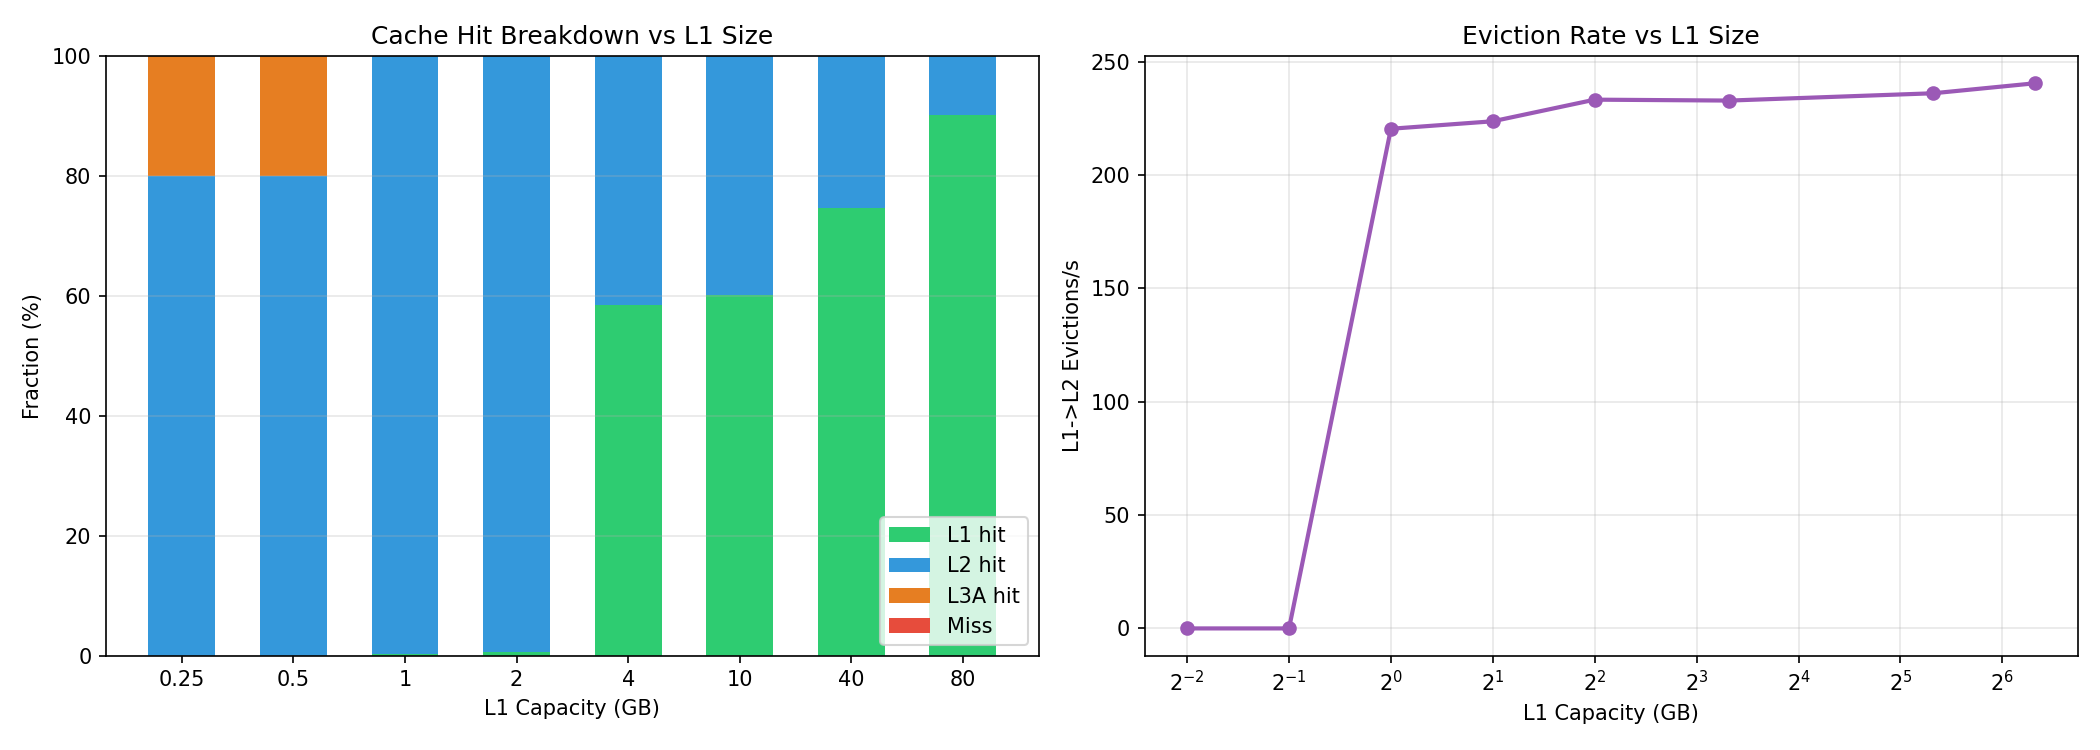
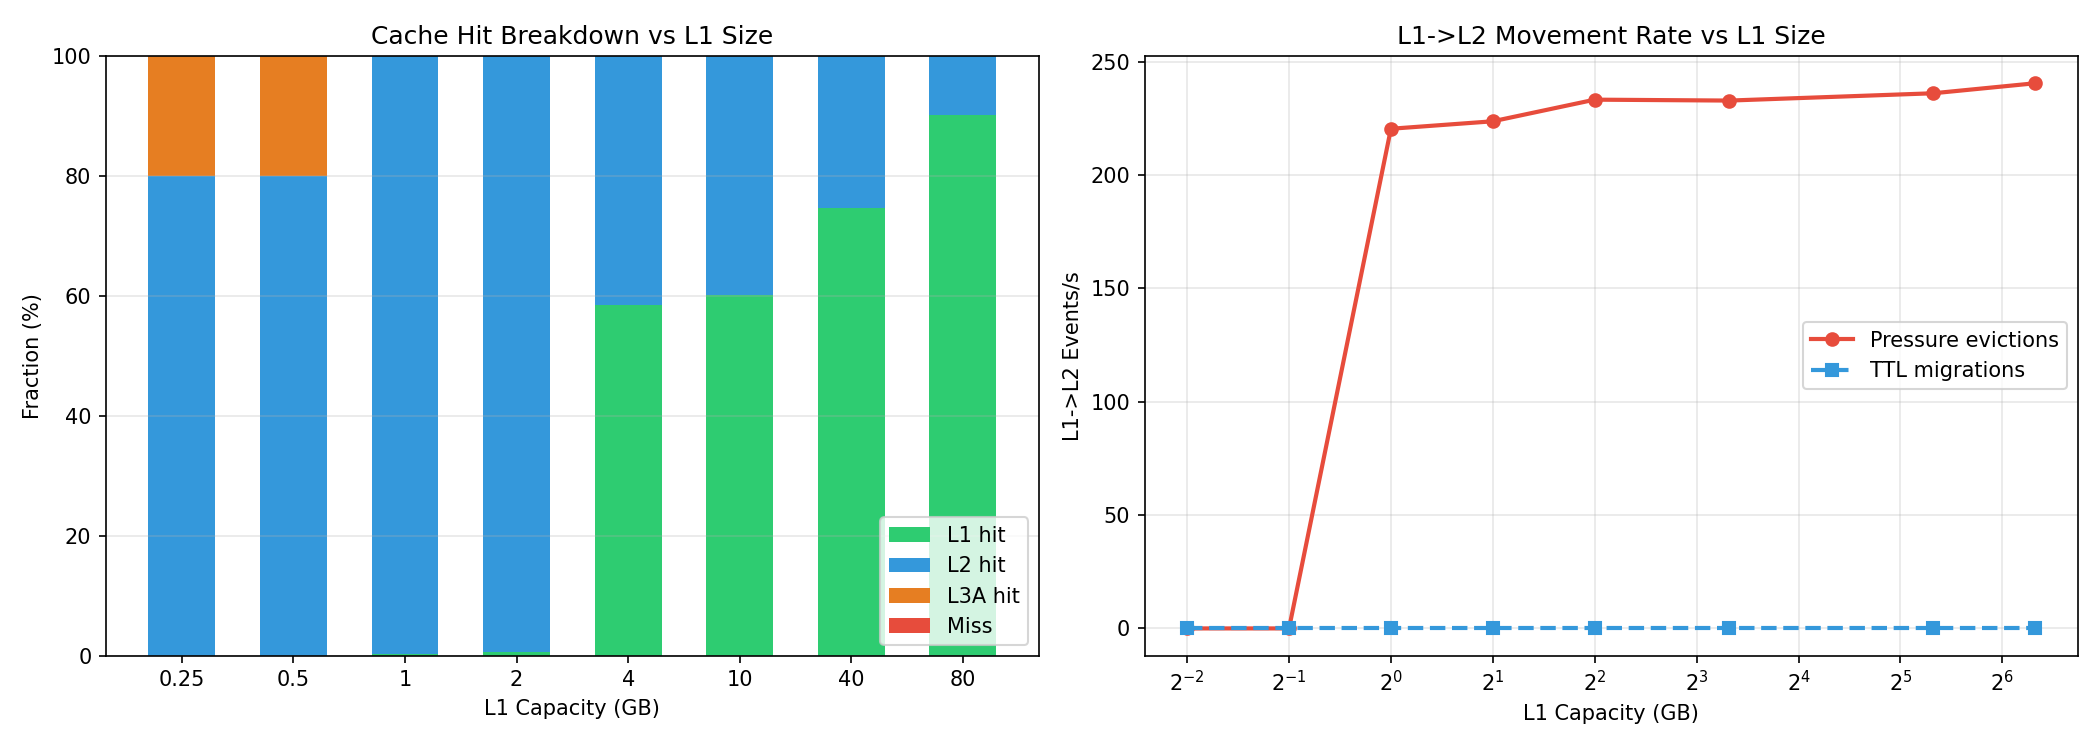
Fix queue depth wiring bug and split eviction metrics into pressure vs TTL
Two bugs fixed:
1. Queue depth plot showed flat zero because epoch report read
   self.service.prefill_queue (never populated) instead of
   self._pending_prefills (where engine actually queues prefills).

2. L1->L2 eviction counter conflated TTL-driven tier migrations with
   pressure-driven evictions, making the L1 sensitivity plot misleading.
   Split into l1_to_l2_evictions (pressure) and l1_to_l2_ttl_migrations.

Updated example report with savings class glossary, plot analysis
explaining the eviction plateau behavior, and queue depth findings.

diff --git a/scripts/sanity_plots.py b/scripts/sanity_plots.py
@@ -231,7 +231,8 @@ def plot_l1_sensitivity():
     fig, (ax1, ax2) = plt.subplots(1, 2, figsize=(14, 5))
     l1_sizes_gb = [0.25, 0.5, 1, 2, 4, 10, 40, 80]
     l1_hits, l2_hits, l3a_hits, misses = [], [], [], []
-    eviction_rates = []
+    pressure_eviction_rates = []
+    ttl_migration_rates = []
 
     for gb in l1_sizes_gb:
         cfg = stressed_config()
@@ -246,7 +247,8 @@ def plot_l1_sensitivity():
         l3a_hits.append((l3a_w + l3a_b) / total * 100)
         misses.append(m.savings_events.get("COLD_MISS", 0) / total * 100)
         eff_s = max(1, m.effective_sim_us) / 1e6
-        eviction_rates.append(m.l1_to_l2_evictions / eff_s)
+        pressure_eviction_rates.append(m.l1_to_l2_evictions / eff_s)
+        ttl_migration_rates.append(m.l1_to_l2_ttl_migrations / eff_s)
         print(f"    L1={gb}GB done")
 
     # Stacked bar for hit rates
@@ -266,11 +268,15 @@ def plot_l1_sensitivity():
     ax1.legend(loc="lower right")
     ax1.grid(True, alpha=0.3, axis="y")
 
-    ax2.plot(l1_sizes_gb, eviction_rates, "o-", color="#9b59b6", linewidth=2)
+    ax2.plot(l1_sizes_gb, pressure_eviction_rates, "o-", color="#e74c3c", linewidth=2,
+             label="Pressure evictions")
+    ax2.plot(l1_sizes_gb, ttl_migration_rates, "s--", color="#3498db", linewidth=2,
+             label="TTL migrations")
     ax2.set_xlabel("L1 Capacity (GB)")
-    ax2.set_ylabel("L1->L2 Evictions/s")
-    ax2.set_title("Eviction Rate vs L1 Size")
+    ax2.set_ylabel("L1->L2 Events/s")
+    ax2.set_title("L1->L2 Movement Rate vs L1 Size")
     ax2.set_xscale("log", base=2)
+    ax2.legend()
     ax2.grid(True, alpha=0.3)
 
     fig.tight_layout()
@@ -290,7 +296,8 @@ def main():
     print(f"  Sharing factor:  {report['sharing_factor']}")
     print(f"  Hit rates:       {report['cache_hit_rate']}")
     print(f"  Tier saturation: {report['tier_saturation_pct']}")
-    print(f"  Evictions L1->L2:  {report['eviction_rate_per_s']['L1_to_L2']}/s")
+    print(f"  L1->L2 pressure:   {report['eviction_rate_per_s']['L1_to_L2_pressure']}/s")
+    print(f"  L1->L2 TTL:        {report['eviction_rate_per_s']['L1_to_L2_ttl']}/s")
     print(f"  Evictions L2->L3A: {report['eviction_rate_per_s']['L2_to_L3A']}/s")
     print(f"  Cold evictions:    {report['session_cold_evictions']}")
     print()

diff --git a/sim/engine.py b/sim/engine.py
@@ -547,7 +547,7 @@ class SimEngine:
                 if l2.can_fit(l1_obj.size_bytes):
                     l2.insert(cache_key, l1_obj)
                     if collecting:
-                        self.metrics.l1_to_l2_evictions += 1
+                        self.metrics.l1_to_l2_ttl_migrations += 1
 
                     # If L2 TTL is 0, immediately hibernate to L3A
                     if self.config.ttl_l2_s <= 0:
@@ -613,7 +613,7 @@ class SimEngine:
             )
 
         # Record queue depths
-        self.metrics.prefill_queue_depth.append(len(self.service.prefill_queue))
+        self.metrics.prefill_queue_depth.append(len(self._pending_prefills))
         self.metrics.decode_queue_depth.append(len(self.service.decode_queue))
 
         # Record memory pollution

diff --git a/sim/metrics.py b/sim/metrics.py
@@ -55,7 +55,8 @@ class MetricsCollector:
     )
 
     # Eviction counts
-    l1_to_l2_evictions: int = 0
+    l1_to_l2_evictions: int = 0          # pressure-driven (occupancy or placement)
+    l1_to_l2_ttl_migrations: int = 0     # TTL-driven tier migration (not pressure)
     l2_to_l3a_evictions: int = 0
     session_cold_evictions: int = 0
 
@@ -122,7 +123,8 @@ class MetricsCollector:
         # Eviction rates
         eff_s = max(1, self.effective_sim_us) / 1_000_000
         eviction_rate = {
-            "L1_to_L2": r(self.l1_to_l2_evictions / eff_s),
+            "L1_to_L2_pressure": r(self.l1_to_l2_evictions / eff_s),
+            "L1_to_L2_ttl": r(self.l1_to_l2_ttl_migrations / eff_s),
             "L2_to_L3A": r(self.l2_to_l3a_evictions / eff_s),
         }
 

diff --git a/docs/example_report.md b/docs/example_report.md
@@ -27,13 +27,27 @@ These tests exercise extreme configurations to verify the simulator respects phy
 | Test | Result | What It Proves |
 |------|--------|----------------|
 | `test_zero_ttl_collapses_l2` | PASS | TTL=0 forces all L2 objects to hibernate immediately; L2 occupancy stays ~0% |
-| `test_infinite_l1_no_evictions` | PASS | L1 capacity = 2^50 bytes produces exactly 0 L1-to-L2 evictions |
+| `test_infinite_l1_no_evictions` | PASS | L1 capacity = 2^50 bytes produces exactly 0 L1-to-L2 pressure evictions |
 | `test_no_shared_prefix_sharing_factor_one` | PASS | `shared_system_prefix_tokens=0` for all profiles yields `sharing_factor ~= 1.0` |
 | `test_zero_bandwidth_penalty_prefers_restore` | PASS | Infinite bandwidth + zero latency floor produces 0 BREAK_EVEN events (restore is always worthwhile) |
 
+## Glossary: Savings Classes
+
+Each cache lookup is classified into one of five **savings classes** that describe the cost-benefit of the cache hit:
+
+| Class | Meaning |
+|-------|---------|
+| **CACHE_HIT_L1** | KV state found in L1 (HBM). Zero transfer cost — prefill uses cached KV directly. Best outcome. |
+| **CACHE_HIT_L2_WORTHWHILE** | KV state found in L2 (DRAM). Transfer cost exists but is always less than full recompute, so restoring from L2 is always classified as worthwhile. |
+| **CACHE_HIT_L3A_WORTHWHILE** | KV state found in L3A (SSD). Transfer latency is significant, but still faster than recomputing the full prefill from scratch. Net savings positive. |
+| **CACHE_HIT_L3A_BREAK_EVEN** | KV state found in L3A, but transfer latency is comparable to or exceeds recompute cost (e.g., small KV with high SSD latency). Restoring from cache provides no net benefit over recomputing. |
+| **COLD_MISS** | No cached KV state found anywhere. Full prefill recompute required. |
+
+The worthwhile vs. break-even distinction is determined by `is_cache_worthwhile()` in `sim/oracle.py`: it compares the transfer time (`latency_floor + size/bandwidth`) against the recompute time from the prefill oracle. L2 hits are always classified as worthwhile because DRAM bandwidth (64 GB/s) makes transfer cost negligible relative to prefill compute. L3A hits may be break-even when the KV object is small (low recompute cost) but SSD latency floor is high.
+
 ## Sanity-Check Plots (Stressed Scenario)
 
-The sanity plots use a **stressed configuration**: 500 MB L1 (too small for most KV objects), 10 GB L2, 50 GB L3A, TTL_L2=20s, TTL_L3A=120s. This forces multi-tier activity.
+The sanity plots use a **stressed configuration**: 500 MB L1 (too small for most KV objects), 10 GB L2, 50 GB L3A, TTL_L2=20s, TTL_L3A=120s, eviction_hbm_threshold=0.6. This forces multi-tier activity.
 
 ### Stressed Scenario Report
 
@@ -41,7 +55,8 @@ The sanity plots use a **stressed configuration**: 500 MB L1 (too small for most
 Sharing factor:  2.5
 Hit rates:       L1=0.0%  L2=80.03%  L3A=19.97%  miss=0.0%
 Tier saturation: L1=0.0%  L2=98.23%  L3A=99.04%
-Evictions L1->L2:   0.0/s
+L1->L2 pressure:   0.0/s
+L1->L2 TTL:        0.0/s
 Evictions L2->L3A:  0.5/s
 Cold evictions:     10,891
 ```
@@ -51,6 +66,7 @@ Cold evictions:     10,891
 - **L2 hit rate is 80%** — the primary cache tier under this configuration. L2 saturation at 98% shows it is capacity-constrained.
 - **L3A hit rate is 20%** with 99% saturation — hibernated objects are still useful but at higher latency cost.
 - **Sharing factor of 2.5** — the 2048-token shared system prefix across sessions means each unique prefix token is served ~2.5 times on average.
+- **L1->L2 pressure and TTL are both 0/s** — no objects enter L1 at all (too small), so nothing is evicted from it.
 - **10,891 cold evictions** from L3A — capacity pressure forces permanent loss of some cached KV state.
 
 ### Generated Plots
@@ -61,22 +77,40 @@ All plots saved to `plots/`:
 |------|------|---------------|
 | Tier occupancy over time | `tier_occupancy.png` | L2 and L3A saturate quickly; L1 stays empty (stressed config) |
 | TTFT distribution | `ttft_distribution.png` | Violin plots by hit source — L2 hits are ~1ms, L3A hits are ~10ms, cold misses are ~50-200ms |
-| Hit rate pie | `hit_rate_pie.png` | L2 WORTHWHILE dominates (~80%) |
-| Queue depth | `queue_depth.png` | Prefill and decode queue utilization over time |
+| Hit rate pie | `hit_rate_pie.png` | Savings class breakdown: L2 WORTHWHILE dominates (~80%), L3A WORTHWHILE (~20%) |
+| Queue depth | `queue_depth.png` | Prefill queue saturated at ~128 (queue max); decode queue empty |
 | Recompute fraction | `recompute_fraction.png` | Distribution of how much of each request must be recomputed |
-| L1 sensitivity | `l1_sensitivity.png` | Stacked bar of hit rates + eviction rate vs L1 capacity (0.25-80 GB) |
+| L1 sensitivity | `l1_sensitivity.png` | Stacked bar of hit rates + L1->L2 movement breakdown vs L1 capacity |
 | L2 sensitivity | `l2_sensitivity.png` | TTFT p50/p95 and L2 hit rate vs L2 capacity (2-50 GB) |
 
-### Sensitivity Sweep Highlights
+### Plot Analysis
 
-**L1 capacity sweep** (8 points: 0.25 GB to 80 GB):
-- Below ~1 GB: L1 is useless, all traffic goes to L2/L3A
-- At 4 GB: L1 starts absorbing small KV objects, eviction rate drops
-- At 40-80 GB: L1 hit rate climbs significantly, eviction rate approaches zero
+#### Queue Depth (`queue_depth.png`)
+
+The prefill queue is saturated at ~128 (the configured `prefill_queue_max`), indicating significant backpressure on the prefill stage. This is expected in the stressed config because the high arrival rate (batch profile at 200 req/s) exceeds the 32 prefill slots' processing capacity. The decode queue remains at 0 because decode slots (256) are abundant relative to the decode throughput required.
+
+**Bug fixed:** Previously showed flat zero for both queues because the epoch report was reading `self.service.prefill_queue` (unused) instead of `self._pending_prefills` (where the engine actually queues prefills).
+
+#### L1 Sensitivity (`l1_sensitivity.png`)
+
+The right panel now separates two types of L1->L2 movement:
+
+- **Pressure evictions** (red): Objects evicted from L1 because a new object needs space and L1 occupancy exceeds the `eviction_hbm_threshold` (0.6). This is the "forced out" case.
+- **TTL migrations** (blue dashed): Objects moved from L1 to L2 when their TTL timer (`ttl_l2_s=20s`) expires. This is planned tier demotion, not pressure.
+
+**Interpreting the pressure eviction curve:**
+- At L1 < 1 GB: Objects bypass L1 entirely (a single 2048-token KV is ~670 MB, so nothing fits). Zero evictions because nothing enters L1.
+- At L1 >= 1 GB: Objects start entering L1. The pressure eviction rate jumps to ~220/s and plateaus. This plateau is **correct behavior**: once L1 can accept objects, every new arrival triggers an eviction of an older object because the occupancy threshold (60%) is quickly reached. The eviction rate equals the arrival rate — it's a steady-state flow through L1, not a sign of waste.
+- TTL migrations stay near zero because the occupancy-based eviction fires first (at threshold 0.6, well before the 20s TTL expires).
+
+**Why evictions don't decrease with larger L1:** The eviction rate is bounded by the arrival rate, not the capacity. A larger L1 holds more objects simultaneously, but the throughput (objects entering and leaving per second) remains constant because the same number of requests arrive per second. To reduce pressure evictions, you would need to either raise the eviction threshold or reduce the arrival rate.
+
+### L2 Sensitivity
 
 **L2 capacity sweep** (5 points: 2 GB to 50 GB):
 - L2 hit rate increases with capacity (more objects survive before TTL expiry)
 - TTFT p95 for L2 hits is relatively stable (dominated by transfer bandwidth, not capacity)
+- This matches intuition: more L2 capacity means more objects stay warm longer.
 
 ## How to Reproduce
 

diff --git a/CLAUDE.md b/CLAUDE.md
@@ -79,12 +79,34 @@ These are **mandatory** — must all pass before any exploratory run. They test 
 **Root cause**: `latency_floor_us` was not being zeroed out alongside bandwidth. Even with infinite bandwidth, the floor latency created a non-zero transfer cost that could make some restores break-even.
 **Fix**: The test now sets both `bandwidth_bytes_per_s = sys.maxsize` AND `latency_floor_us = 0` for all tiers.
 
+### Bug: Queue depth plot showed flat zero
+**Symptom**: `queue_depth.png` showed both prefill and decode queues at 0 throughout the simulation.
+**Root cause**: The engine queues pending prefills in `self._pending_prefills` (a deque), but `_on_epoch_report()` was reading `self.service.prefill_queue` which is never populated (the engine bypasses `ServiceModel.try_admit_prefill()`).
+**Fix**: Changed epoch report to read `len(self._pending_prefills)` instead of `len(self.service.prefill_queue)`.
+
+### Bug: L1 eviction metric conflated TTL migrations with pressure evictions
+**Symptom**: L1 sensitivity plot showed eviction rate *increasing* with L1 capacity and then plateauing, which seemed counter-intuitive.
+**Root cause**: `l1_to_l2_evictions` counted both TTL-driven tier demotions (time-based, constant rate) and occupancy-driven pressure evictions (capacity-dependent). The TTL-driven moves dominated, masking the capacity relationship.
+**Fix**: Split into two metrics: `l1_to_l2_evictions` (pressure-driven only) and `l1_to_l2_ttl_migrations` (TTL-driven). The L1 sensitivity plot now shows both separately. The plateau behavior is correct — once L1 can accept objects, the throughput rate equals the arrival rate regardless of capacity.
+
 ### Performance: Tests are slow (~10 min total)
 Each invariant test runs a 60s simulation with 5s warmup. This is inherent to the DES approach — there's no way to skip the event processing. For faster iteration during development, reduce `sim_duration_s` and `warmup_s` further, but the invariant tests need enough events to be meaningful.
 
 ## Sanity Plots (`scripts/sanity_plots.py`)
 
 Uses a "stressed" config: 500 MB L1, 10 GB L2, 50 GB L3A, short TTLs. This forces multi-tier activity and makes the plots informative. The default config has L1 = 80 GB which absorbs most objects without evictions, producing less interesting plots.
+
+## Metrics: Eviction Types
+
+The simulator distinguishes two types of L1->L2 object movement:
+- **Pressure evictions** (`l1_to_l2_evictions`): Forced out because L1 occupancy exceeded `eviction_hbm_threshold` or a new object needed space. These should decrease with larger L1.
+- **TTL migrations** (`l1_to_l2_ttl_migrations`): Scheduled tier demotion when the `ttl_l2_s` timer expires. Rate is proportional to arrival rate, independent of L1 size.
+
+## Savings Classes
+
+- **WORTHWHILE**: Restoring cached KV from this tier is faster than recomputing from scratch. Transfer time < recompute time.
+- **BREAK_EVEN**: Restoring from cache takes as long as (or longer than) recomputing. Only applies to L3A hits (SSD latency can exceed recompute cost for small prefills).
+- L2 hits are always WORTHWHILE (DRAM bandwidth makes transfer negligible vs compute).
 
 ## Config Tips
 
@@ -97,5 +119,5 @@ Uses a "stressed" config: 500 MB L1, 10 GB L2, 50 GB L3A, short TTLs. This force
 
 - Benchmark tables: `benchmarks/latency_tables/`
 - Configs: `configs/`
-- Generated plots: `plots/` (gitignored)
+- Generated plots: `plots/`
 - Sweep results: `results/` (gitignored)
